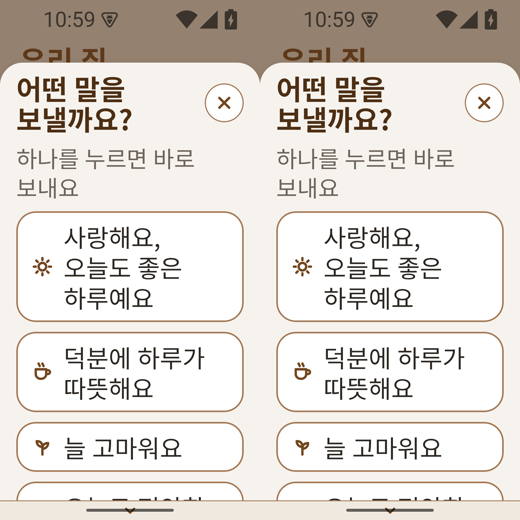
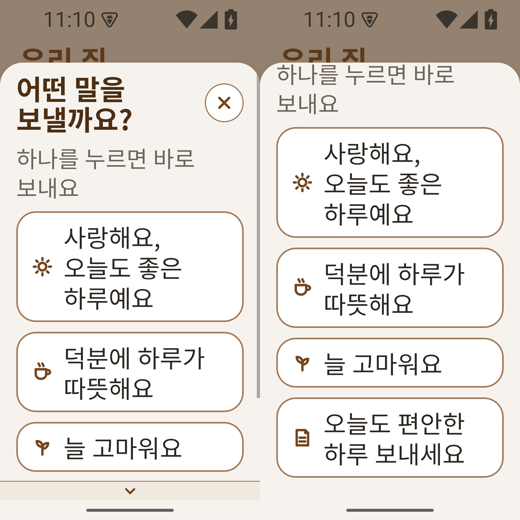
fix(cheer): 리뷰 M1·L1·L2·L4·L5 반영(PR #93)
- M1: '응원 보내기' ref → Sheet returnFocusRef, returnFocusRef 필수 prop
- L1: 더 있음 띠는 끝까지 내리면 숨김(onScroll + 관성 멈춤·끌기 끝 위치 기록)
- L2: 아래 inset 은 패널 바닥 여백(띠·내용이 3버튼 내비 위)
- L4: 공용 Sheet 닫기 3길·포커스(열림·닫힘) 테스트, 응원 시트 포커스 복귀 테스트
- L5: 200% 캡처는 시트 안에서 실제로 끝까지 밀어 찍음
- L3(자판 처리)는 입력 있는 시트를 옮길 때 — 노트·주석

diff --git a/app/src/ui/ds/Sheet.tsx b/app/src/ui/ds/Sheet.tsx
@@ -26,8 +26,8 @@ export type SheetProps = {
   onClose: () => void;
   /** X 읽는 이름(ui 는 문구를 모른다 — 호출부가 copy 에서) */
   closeLabel: string;
-  /** 닫히면 포커스를 돌려줄 요소(이 시트를 연 버튼, R12) */
-  returnFocusRef?: RefObject<unknown>;
+  /** 닫히면 포커스를 돌려줄 요소(이 시트를 연 버튼, R12). 필수 — 공용 부품이라 쓰는 곳마다 빠뜨리지 않게(PR #93 M1) */
+  returnFocusRef: RefObject<unknown>;
   children?: React.ReactNode;
   testID?: string;
 };
@@ -38,6 +38,7 @@ export type SheetProps = {
  * - 높이는 화면의 88%까지, 넘치면 시트 안에서만 스크롤 + 아래 '더 있음' 띠(R-19, 넘칠 때만).
  * - 글자는 역할 상한(선택지 bodyLg 2.0) — 150%로 묶지 않는다(V14 ③).
  * - 닫는 길: X · 밖 누르기 · 안드로이드 뒤로. 열리면 포커스가 제목으로, 닫히면 연 버튼으로. 모션은 불투명도만(옛 BottomSheet 와 같음).
+ * - 입력 없는 시트 전용: 자판 처리(KAV)가 없다. 입력이 든 시트(호칭 직접 쓰기 등)를 옮길 때 더한다(PR #93 L3).
  */
 export function Sheet(props: SheetProps) {
   // 시트는 Modal(별도 창)이라 화면의 AudienceProvider 가 닿지 않을 수 있어 바깥 audience 를 그대로 넘긴다
@@ -58,7 +59,9 @@ function SheetInner({visible, title, sub, onClose, closeLabel, returnFocusRef, c
   const {opacity, start} = useFadeIn(visible);
   const [view, setView] = useState(0);
   const [content, setContent] = useState(0);
-  const more = content > view + 1;
+  const [y, setY] = useState(0);
+  // 넘칠 때만, 끝까지 내리면 숨긴다(옛 Screen measure 와 같은 식, PR #93 L1)
+  const more = content > view + 1 && y + view < content - 2;
 
   return (
     <Modal
@@ -75,13 +78,19 @@ function SheetInner({visible, title, sub, onClose, closeLabel, returnFocusRef, c
       <Animated.View style={[styles.root, {opacity}]}>
         {/* 밖 누르기 = 닫기. 화면 읽기에서는 X 가 같은 일을 하므로 숨긴다 */}
         <Pressable testID="sheet-scrim" style={styles.scrim} onPress={onClose} accessible={false} importantForAccessibility="no" />
-        <View testID={testID} accessibilityViewIsModal style={[styles.panel, {maxHeight: Math.floor(height * SHEET_MAX_RATIO)}]}>
+        {/* 아래 inset(3버튼 내비·홈 인디케이터)은 패널 바닥 여백으로 — 스크롤 내용과 더 있음 띠가 모두 그 위에 놓인다(PR #93 L2) */}
+        <View testID={testID} accessibilityViewIsModal style={[styles.panel, {maxHeight: Math.floor(height * SHEET_MAX_RATIO), paddingBottom: insets.bottom}]}>
           <ScrollView
             testID={`${testID}-scroll`}
             style={styles.scroll}
             onLayout={e => setView(Math.round(e.nativeEvent.layout.height))}
             onContentSizeChange={(_w, h) => setContent(Math.round(h))}
-            contentContainerStyle={[styles.body, {paddingBottom: Math.max(28, 16 + insets.bottom)}]}>
+            onScroll={e => setY(Math.round(e.nativeEvent.contentOffset.y))}
+            // 관성 스크롤이 멈춘 마지막 위치는 onScroll(쓰로틀)로 안 올 수 있다 → 멈출 때도 기록(에뮬레이터 200% 실측)
+            onMomentumScrollEnd={e => setY(Math.round(e.nativeEvent.contentOffset.y))}
+            onScrollEndDrag={e => setY(Math.round(e.nativeEvent.contentOffset.y))}
+            scrollEventThrottle={16}
+            contentContainerStyle={[styles.body, {paddingBottom: 28}]}>
             <View style={styles.head}>
               <View ref={titleRef} accessible accessibilityRole="header" style={styles.titleWrap}>
                 <Heading level={2}>{title}</Heading>

diff --git a/app/src/features/home/ChildHome.tsx b/app/src/features/home/ChildHome.tsx
@@ -1,4 +1,4 @@
-import React, {useEffect, useState} from 'react';
+import React, {useEffect, useRef, useState} from 'react';
 import {StyleSheet, View} from 'react-native';
 import {useNavigation} from '@react-navigation/native';
 import type {NativeStackNavigationProp} from '@react-navigation/native-stack';
@@ -45,6 +45,7 @@ export function ChildHome() {
   const {api} = useSession();
   const {info, error, loading, load} = useChildSummary();
   const [sheet, setSheet] = useState(false);
+  const cheerButton = useRef<React.ComponentRef<typeof import('react-native').Pressable>>(null); // 시트가 닫히면 화면 읽기 포커스를 이 버튼으로(PR #93 M1)
   const [making, setMaking] = useState(false);
   const {show} = useToast();
   const {send, sending} = useSendCheer(api, load);
@@ -100,7 +101,7 @@ export function ChildHome() {
     !info ? (
       <BigButton label={c.cheer.button} disabled disabledReason={h.loading_reason} onPress={() => {}} />
     ) : reachable.length ? (
-      <BigButton label={c.cheer.button} loading={sending} onPress={() => setSheet(true)} />
+      <BigButton label={c.cheer.button} loading={sending} onPress={() => setSheet(true)} buttonRef={cheerButton} />
     ) : undefined;
 
   return (
@@ -130,7 +131,7 @@ export function ChildHome() {
       </Screen>
       {/* 응원 시트 v4(시안 child/C4_cheer_sheet_ds4 #40): ds Sheet + Choice(action) 1열. 확정 문구 4개, 누르면 바로 보낸다 */}
       <AudienceProvider value="child">
-        <Sheet visible={sheet} onClose={() => setSheet(false)} closeLabel={c.cheer.close} title={c.cheer.title} sub={c.cheer.hint} testID="sheet">
+        <Sheet visible={sheet} onClose={() => setSheet(false)} closeLabel={c.cheer.close} title={c.cheer.title} sub={c.cheer.hint} returnFocusRef={cheerButton} testID="sheet">
           <Choice
             mode="action"
             testID="cheer"

diff --git a/docs/team/dev-app-notes.md b/docs/team/dev-app-notes.md
@@ -617,3 +617,5 @@
 - 시안과 다른 점: 사물 아이콘 4종(해·찻잔·새싹·쪽지)은 design-system/assets/icons 에 아직 없어 빼고 냄(아이콘 파일은 '그림을 직접 그리지 않는다' 규칙) → 디자인에 자산 요청.
 - 실측(emulator-5556, audit/cheer-sheet.yaml, fake 시작 상태를 잠깐 바꿔 실행·커밋 안 함): 360×640 100%·360×800 한 화면, 320×640 200% 시트 88% + 안에서 스크롤 + 띠.
 - dsBaseline 177 → 175(text20Size −1·rnImport −1). C3(#83)와 같은 줄을 바꾸므로 나중에 병합되는 쪽이 숫자를 합친다.
+- 리뷰(38679a2) 반영: M1 '응원 보내기' 누름 영역 ref → Sheet returnFocusRef(필수 prop으로 바꿈, 공용 부품이라 빠뜨리지 않게). L1 더 있음 띠는 끝까지 내리면 숨김(onScroll + 관성 멈춤·끌기 끝에도 위치 기록 — 쓰로틀로 마지막 위치가 안 와 띠가 남던 것 200% 실측). L2 아래 inset 은 패널 바닥 여백(띠·내용이 3버튼 내비 위). L4 공용 Sheet 닫기 3길·포커스(열림 → 제목, 닫힘 → 연 버튼) 테스트. L5 200% 캡처는 시트 안에서 실제로 끝까지 밀어 찍음. 사물 아이콘 4종(디자인 #92 자산 사본) 반영.
+- 남은 것(L3): 공용 Sheet 는 입력 없는 시트 전용 — 자판 처리(KAV)는 입력이 든 시트(호칭 직접 쓰기 등)를 옮길 때 더한다.
